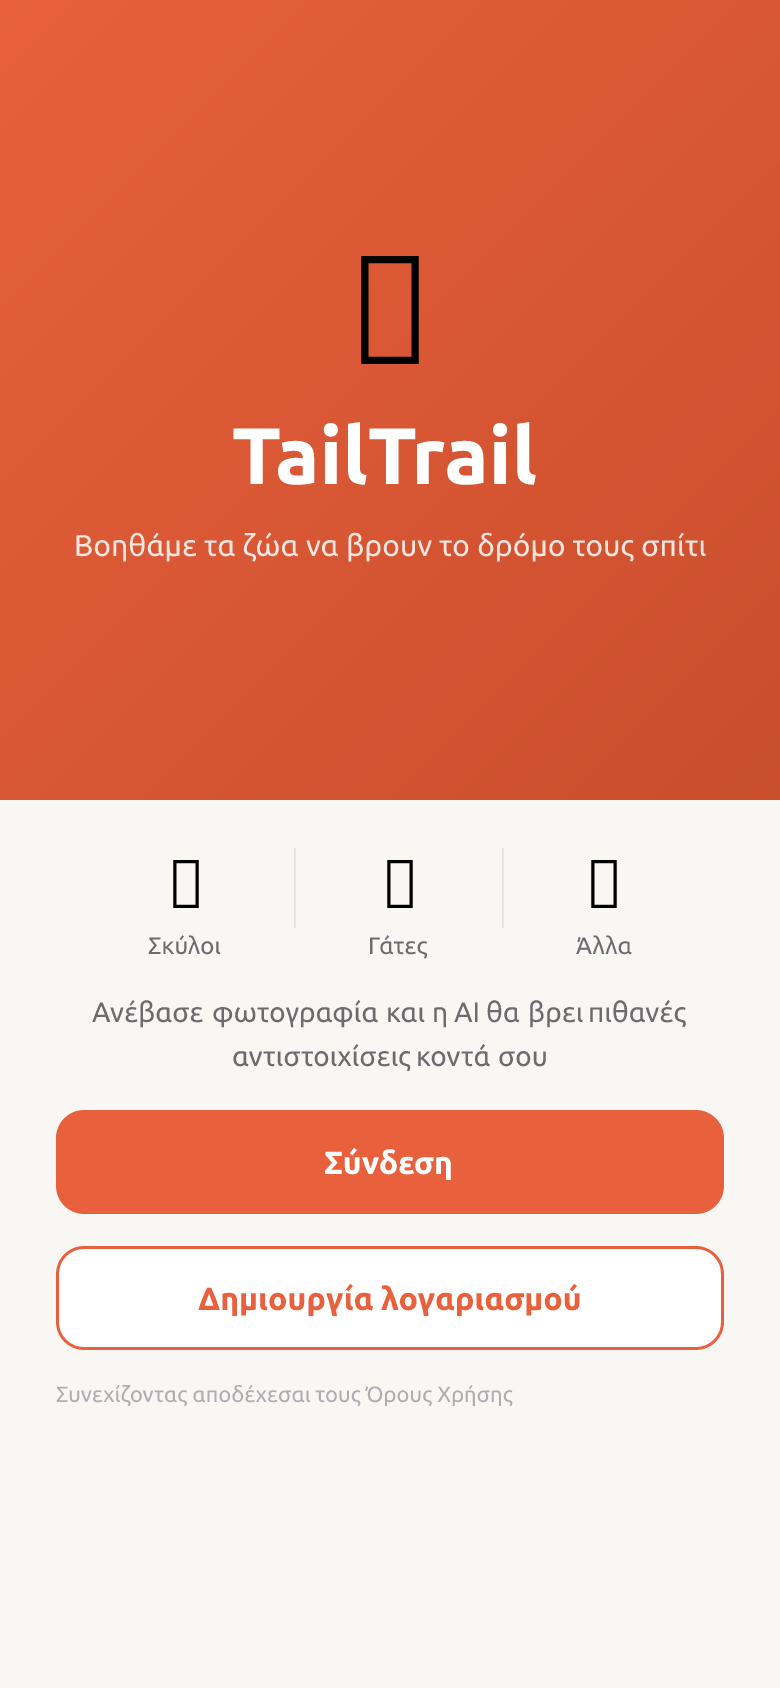
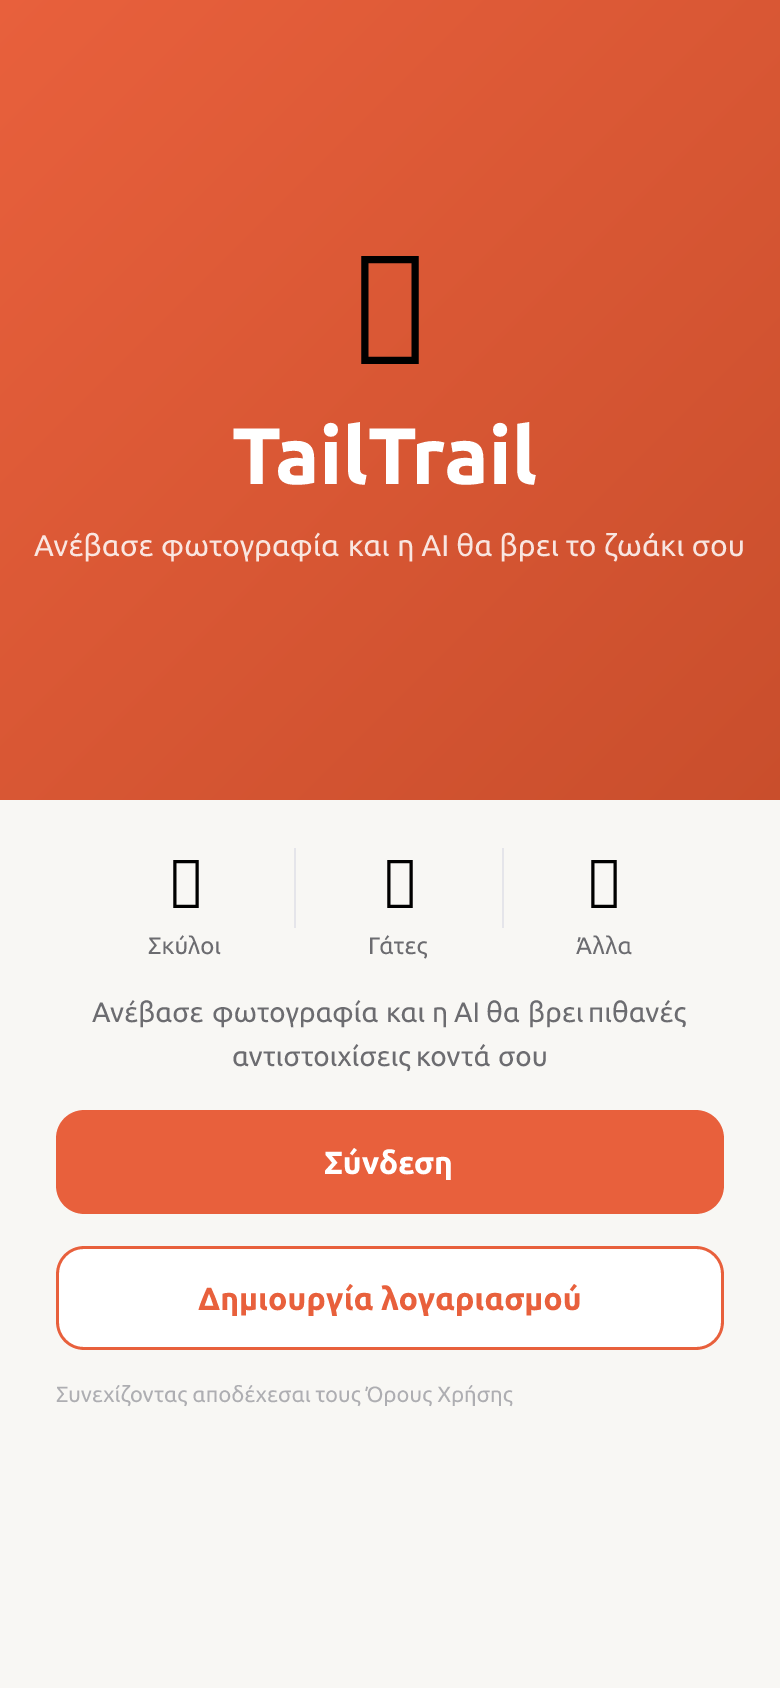
Update welcome tagline to highlight AI matching

Changed region(s): [[0.0308, 0.3081, 0.9538, 0.3389]]

diff --git a/app/src/screens/auth/WelcomeScreen.tsx b/app/src/screens/auth/WelcomeScreen.tsx
@@ -29,7 +29,7 @@ export function WelcomeScreen({ navigation }: Props) {
           </View>
           <Text style={styles.appName}>TailTrail</Text>
           <Text style={styles.tagline}>
-            Βοηθάμε τα ζώα{'\n'}να βρουν το δρόμο τους σπίτι
+            Ανέβασε φωτογραφία και{'\n'}η AI θα βρει το ζωάκι σου
           </Text>
         </SafeAreaView>
       </LinearGradient>